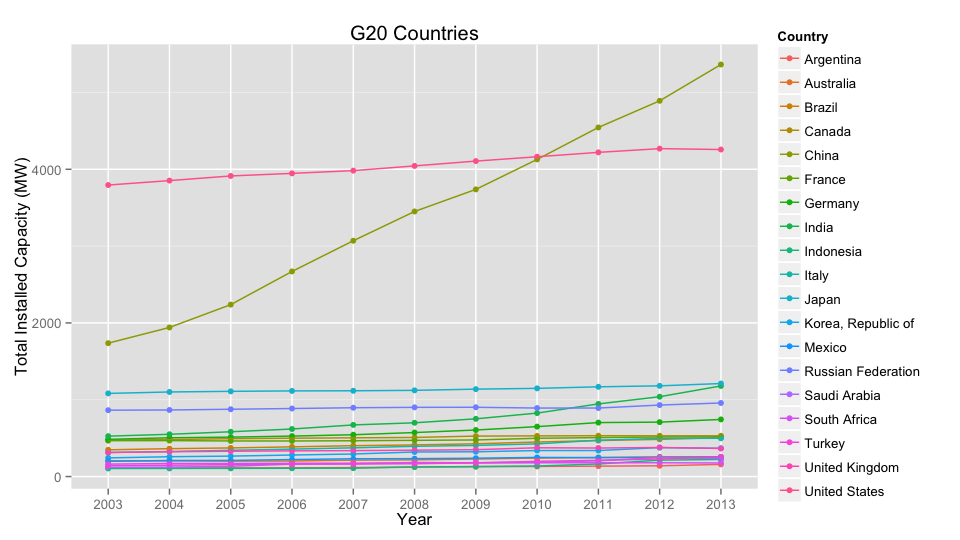
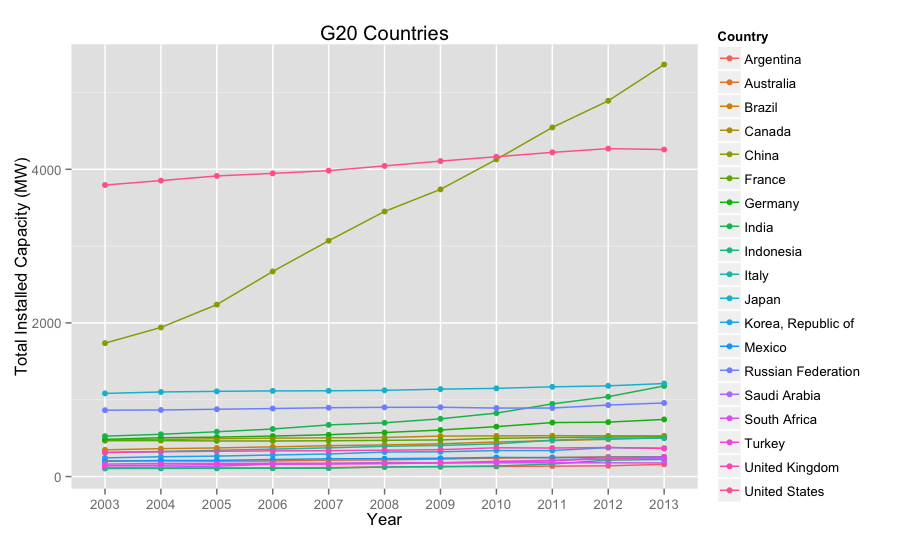
Finalizing

diff --git a/index.html b/index.html
@@ -1,9 +1,9 @@
 <!DOCTYPE html>
 <html>
 <head>
-  <title>Enerygy Statistic Database</title>
+  <title>Enerygy Statistics Database</title>
   <meta charset="utf-8">
-  <meta name="description" content="Enerygy Statistic Database">
+  <meta name="description" content="Enerygy Statistics Database">
   <meta name="author" content="Trieu Tran">
   <meta name="generator" content="slidify" />
   <meta name="apple-mobile-web-app-capable" content="yes">
@@ -32,7 +32,7 @@
     <!-- LOGO SLIDE -->
         <slide class="title-slide segue nobackground">
   <hgroup class="auto-fadein">
-    <h1>Enerygy Statistic Database</h1>
+    <h1>Enerygy Statistics Database</h1>
     <h2>Electric, net installed capacity of electric power plants | United Nations Statistics Division</h2>
     <p>Trieu Tran<br/></p>
   </hgroup>
@@ -46,7 +46,9 @@
     <h2>Introduction</h2>
   </hgroup>
   <article data-timings="">
-    <p>Lorem Ipsum</p>
+    <p>&quot;Energy Statistics Database&quot; is a collective of data of energy production, trade, conversion and consumption of more than 220 countries/territories in the world.  The United Nation Statistics Division has developed this database and has made it publicly available.</p>
+
+<p>This presentation provides a quick look at &quot;Electricity, net installed capacity of electric power plants&quot; data (as a subset of the &quot;Energy Statistics Database&quot;), and also comes with some R code snipets for the data exploration purpose.</p>
 
   </article>
   <!-- Presenter Notes -->
@@ -57,11 +59,11 @@
     <h2>Data</h2>
   </hgroup>
   <article data-timings="">
-    <ol>
-<li><p>Where to get data
-URL: <a href="http://data.un.org/Data.aspx?d=EDATA&amp;f=cmID%3aEC">http://data.un.org/Data.aspx?d=EDATA&amp;f=cmID%3aEC</a></p></li>
-<li><p>Take a quick look at the data</p></li>
-</ol>
+    <h3>Where to get data</h3>
+
+<p>Download from URL: <a href="http://data.un.org/Data.aspx?d=EDATA&amp;f=cmID%3aEC">Here</a></p>
+
+<h3>Take a quick look at the data</h3>
 
 <pre><code>## &#39;data.frame&#39;:    47591 obs. of  6 variables:
 ##  $ Country.or.Area        : Factor w/ 242 levels &quot;1&quot;,&quot;Afghanistan&quot;,..: 2 2 2 2 2 2 2 2 2 2 ...
@@ -77,6 +79,26 @@ URL: <a href="http://data.un.org/Data.aspx?d=EDATA&amp;f=cmID%3aEC">http://data.
 </slide>
 
 <slide class="class" id="s3" style="background:;">
+  <hgroup>
+    <h2>Data</h2>
+  </hgroup>
+  <article data-timings="">
+    <h3>Data Description</h3>
+
+<ol>
+        <li> Country: Names of countries/territories </li>
+        <li> Commodity...Transaction: Installed or generating capacity of different types of electric power plants or pwer sources </li>
+        <li>Year: Ranges from 1990 to 2013</li>
+        <li>Year: Ranges from 1990 to 2013</li>
+        <li>Unit: power unit in Kilowatts (KWs)</li>
+        <li>Quantity: Total power installed or generated in a specific year in KWs</li>
+</ol>
+
+  </article>
+  <!-- Presenter Notes -->
+</slide>
+
+<slide class="class" id="s4" style="background:;">
   <hgroup>
     <h2>Data visualization</h2>
   </hgroup>
@@ -100,14 +122,14 @@ p &lt;- ggplot(data = results, aes(x = factor(Year), y = ttl, color = Country))
 p &lt;- p + geom_point() + aes(group = Country) + geom_line() 
 p &lt;- p + labs(x = &quot;Year&quot;, y = &quot;Total Installed Capacity (MW)&quot;, title = &quot;G20 Countries&quot;)
 
-ggsave(file.path(figureDir, &quot;plot1.png&quot;), width=9.6, height=5.4, dpi=100)
+ggsave(file.path(figureDir, &quot;plot1.png&quot;), width=9.0, height=5.4, dpi=100)
 </code></pre>
 
   </article>
   <!-- Presenter Notes -->
 </slide>
 
-<slide class="class" id="s4" style="background:;">
+<slide class="class" id="s5" style="background:;">
   <hgroup>
     <h2>Data visualization</h2>
   </hgroup>
@@ -120,7 +142,7 @@ ggsave(file.path(figureDir, &quot;plot1.png&quot;), width=9.6, height=5.4, dpi=1
   <!-- Presenter Notes -->
 </slide>
 
-<slide class="class" id="s5" style="background:;">
+<slide class="class" id="s6" style="background:;">
   <hgroup>
     <h2>Learn More</h2>
   </hgroup>
@@ -149,7 +171,7 @@ ggsave(file.path(figureDir, &quot;plot1.png&quot;), width=9.6, height=5.4, dpi=1
     </li>
     <li>
       <a href="#" target="_self" rel='tooltip' 
-        data-slide=3 title='Data visualization'>
+        data-slide=3 title='Data'>
          3
       </a>
     </li>
@@ -161,8 +183,14 @@ ggsave(file.path(figureDir, &quot;plot1.png&quot;), width=9.6, height=5.4, dpi=1
     </li>
     <li>
       <a href="#" target="_self" rel='tooltip' 
-        data-slide=5 title='Learn More'>
+        data-slide=5 title='Data visualization'>
          5
+      </a>
+    </li>
+    <li>
+      <a href="#" target="_self" rel='tooltip' 
+        data-slide=6 title='Learn More'>
+         6
       </a>
     </li>
   </ul>

diff --git a/index.md b/index.md
@@ -1,5 +1,5 @@
 ---
-title       : Enerygy Statistic Database
+title       : Enerygy Statistics Database
 subtitle    : Electric, net installed capacity of electric power plants | United Nations Statistics Division
 author      : Trieu Tran
 job         : 
@@ -12,14 +12,17 @@ knit        : slidify::knit2slides
 
 --- .class #s1
 ## Introduction
-<p>Lorem Ipsum</p>
+"Energy Statistics Database" is a collective of data of energy production, trade, conversion and consumption of more than 220 countries/territories in the world.  The United Nation Statistics Division has developed this database and has made it publicly available.
+
+This presentation provides a quick look at "Electricity, net installed capacity of electric power plants" data (as a subset of the "Energy Statistics Database"), and also comes with some R code snipets for the data exploration purpose.
 
 --- .class #s2
 ## Data
-1. Where to get data
-URL: http://data.un.org/Data.aspx?d=EDATA&f=cmID%3aEC
 
-2. Take a quick look at the data
+### Where to get data
+Download from URL: [Here](http://data.un.org/Data.aspx?d=EDATA&f=cmID%3aEC)
+
+### Take a quick look at the data
 
 ```
 ## 'data.frame':	47591 obs. of  6 variables:
@@ -31,9 +34,26 @@ URL: http://data.un.org/Data.aspx?d=EDATA&f=cmID%3aEC
 ##  $ Quantity.Footnotes     : int  1 NA NA 1 1 NA 1 1 1 1 ...
 ```
 
---- .class #s3 
+--- .class #s3
+## Data
+
+### Data Description
+
+<ol>
+        <li> Country: Names of countries/territories </li>
+        <li> Commodity...Transaction: Installed or generating capacity of different types of electric power plants or pwer sources </li>
+        <li>Year: Ranges from 1990 to 2013</li>
+        <li>Year: Ranges from 1990 to 2013</li>
+        <li>Unit: power unit in Kilowatts (KWs)</li>
+        <li>Quantity: Total power installed or generated in a specific year in KWs</li>
+</ol>
+
+--- .class #s4 
 ## Data visualization
+
 ### Total net installed capacity of electric power plants of G20 countries 
+
+
 ##### Graph generation code
 
 
@@ -54,15 +74,17 @@ p <- ggplot(data = results, aes(x = factor(Year), y = ttl, color = Country))
 p <- p + geom_point() + aes(group = Country) + geom_line() 
 p <- p + labs(x = "Year", y = "Total Installed Capacity (MW)", title = "G20 Countries")
 
-ggsave(file.path(figureDir, "plot1.png"), width=9.6, height=5.4, dpi=100)
+ggsave(file.path(figureDir, "plot1.png"), width=9.0, height=5.4, dpi=100)
 ```
 
---- .class #s4 
+--- .class #s5
 ## Data visualization
+
 ### Total net installed capacity of electric power plants of G20 countriess 
+
 ![](figure/plot1.png)
 
---- .class #s5
+--- .class #s6
 ## Learn More
 
 Visit my shiny app: [https://trieutn.shinyapps.io/data_products_course_project/](https://trieutn.shinyapps.io/data_products_course_project/)
